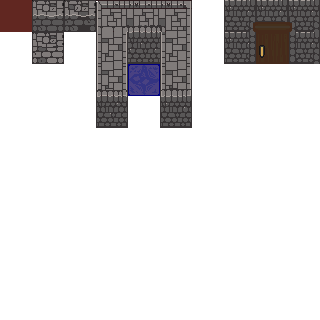
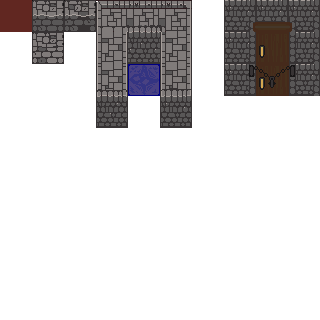
Added locked door

Changed region(s): [[0.6875, 0.1875, 1.0, 0.3125]]

diff --git a/js/world.js b/js/world.js
@@ -114,6 +114,9 @@ const TILE_DUNGEON_DOOR_CEILING = 299; // the wall tile behind the door needs to
 const TILE_DUNGEON_WALL_1 = 215;
 const TILE_DUNGEON_WALL_2 = 216;
 const TILE_DUNGEON_WALL_3 = 217;
+const TILE_DUNGEON_LOCKED_DOOR_BL = 218;
+const TILE_DUNGEON_LOCKED_DOOR_BC = 219; 
+const TILE_DUNGEON_LOCKED_DOOR_BR = 220;
 
 var MAP_DATA = {
   fallDale: {
@@ -275,7 +278,7 @@ const WORLD_MAPS = {
     [202,208,208,208,208,208,208,208,208,208,208,208,208,208,202,208,208,208,208,208,208,208,208,208, 96,208,208,208,208,203,208,208,208,208,208,208,208,203,208, 78,208,208,208,208,203],
     [202,208,208, 93,208,208,208,208,208,208,208,208, 93,208,202,208,208,208,208,208,208,208,208,208,208,208,208,208,208,203,200,200,200,200,299,200,200,203,208,208,208,208,208,208,203],
     [202,208,208,208,208,208,208,208,208,203,208,208,208,208,202,208,208,208,208,208,208,208,208,208,208,208,208,208,208,203,201,201,201,209,210,211,201,203,208,208, 93,208, 93,208,203],
-    [202,208,208,208,208,208,208,208,208,203,208,208,208,208,202,208,208,208,208,208,208,208,208,208,208,208,208,208,208,203,201,201,201,212,213,214,201,203,208,208,208,208,208,208,203],
+    [202,208,208,208,208,208,208,208,208,203,208,208,208,208,202,208,208,208,208,208,208,208,208,208,208,208,208,208,208,203,201,201,201,218,219,220,201,203,208,208,208,208,208,208,203],
     [202,200,200,200,200,200,200,200,200,200,200,299,200,200,200,200,299,200,200,200,200,200,200,200,200,200,200,200,200,200,208,208,208,208,208,208,208,203,208,208,208,208,208,208,203],
     [202,201,201,201,201,201,201,201,201,203,209,210,211,201,202,209,210,211,203,201,201,201,201,201,201,201,201,201,201,201,208,208,208,208,208,208,208,203,208,208,208,208,208,208,203],
     [202,201,201,201,201,201,201,201,201,203,212,213,214,201,202,212,213,214,203,201,201,201,201,201,201,201,201,201,201,201,208,208,208,208, 77, 77,208,203,208,208,208,208,208,208,203],

diff --git a/js/imageLoading.js b/js/imageLoading.js
@@ -163,6 +163,9 @@ function loadImages() {
         {tileType: TILE_DUNGEON_DOOR_BL, theFile: "wall.png", sX: 224, sY: 32, options: 0},
         {tileType: TILE_DUNGEON_DOOR_BC, theFile: "wall.png", sX: 256, sY: 32, options: 0},
         {tileType: TILE_DUNGEON_DOOR_BR, theFile: "wall.png", sX: 288, sY: 32, options: 0},
+        {tileType: TILE_DUNGEON_LOCKED_DOOR_BL, theFile: "wall.png", sX: 224, sY: 64, options: 0},
+        {tileType: TILE_DUNGEON_LOCKED_DOOR_BC, theFile: "wall.png", sX: 256, sY: 64, options: 0},
+        {tileType: TILE_DUNGEON_LOCKED_DOOR_BR, theFile: "wall.png", sX: 288, sY: 64, options: 0},
         {tileType: TILE_ROAD_CORNER_TL, theFile: "road.png", sX: 0,   sY: 0 },
         {tileType: TILE_ROAD_CORNER_TR, theFile: "road.png", sX: 32,  sY: 0 },
         {tileType: TILE_ROAD_CORNER_BL, theFile: "road.png", sX: 0,   sY: 32 },
